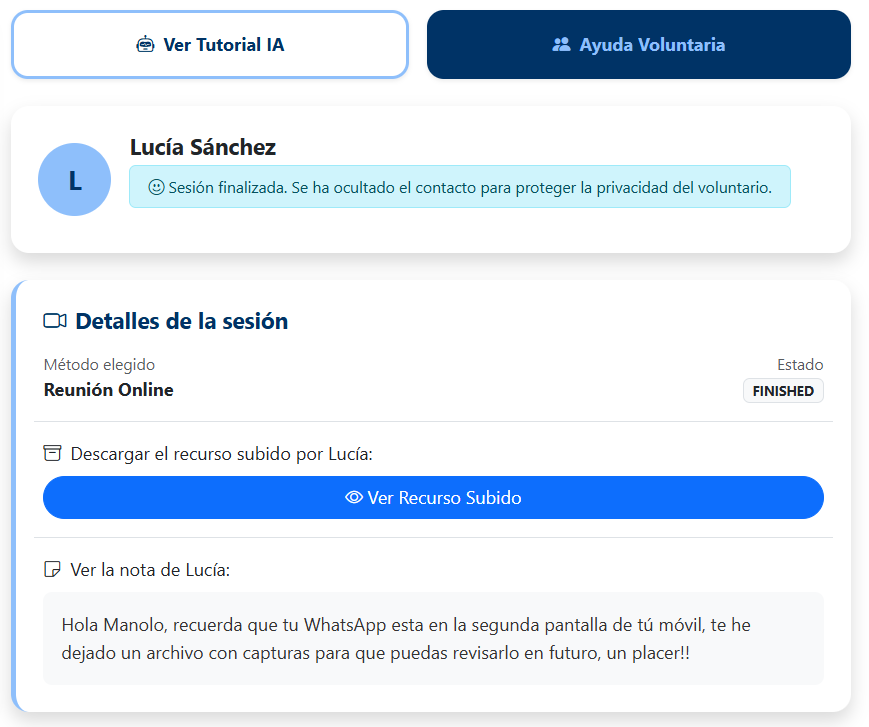
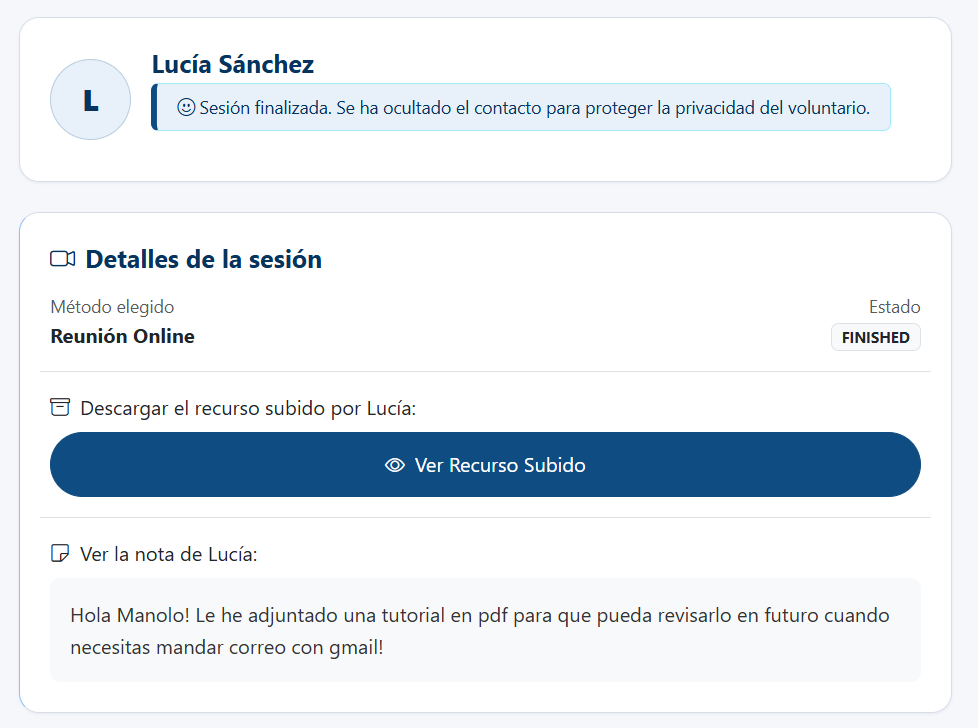
Landing improvements

Changed region(s): [[0.0, 0.3329, 0.9632, 0.9684], [0.0, 0.0, 0.9942, 0.3026], [0.8389, 0.3934, 0.9632, 0.5447]]

diff --git a/src/styles/global.css b/src/styles/global.css
@@ -2,7 +2,7 @@
 
 :root {
 
-  --color-brand: #8EBFFB;   
+  --color-brand: #0f4c81;   
   --color-brand-hover: #0369a1;  
   --color-text-dark: #1f2937;   
   --color-text-muted: #4b5563;   
@@ -10,8 +10,8 @@
   --color-bg-alt: #f8fafc;      
   --color-border: #e2e8f0;
 
-  --color-volunteer: #a2cf6e;
-  --color-bg-dark-btn: #8EBFFB; 
+  --color-volunteer: #2f6f4e;
+  --color-bg-dark-btn: #0f4c81; 
   --color-text-on-dark: #ffffff;
   --font-base: 'Open Sans', system-ui, -apple-system, BlinkMacSystemFont, 'Segoe UI', Roboto, sans-serif;
   --font-size-base: 1.2rem;     /* 19.2px aprox */
@@ -71,7 +71,7 @@ p {
 
 .btn-dark {
   background-color: var(--color-bg-dark-btn);
-  color: var(--color-text-dark);
+  color: var(--color-text-on-dark);
   border: 2px solid transparent;
 }
 
@@ -83,13 +83,14 @@ p {
 
 .btn-outline {
   background-color: var(--color-volunteer);
-  color: var(--color-text-dark);
+  color: var(--color-text-on-dark);
   border: 1px solid var(--color-border);
 }
 
 .btn-outline:hover {
-  background-color: #f1f5f9;
-  border-color: var(--color-text-dark);
+  background-color: var(--color-text-dark);
+  color: var(--color-text-on-dark);
+  transform: translateY(-2px);
 }
 
 .btn-primary {
